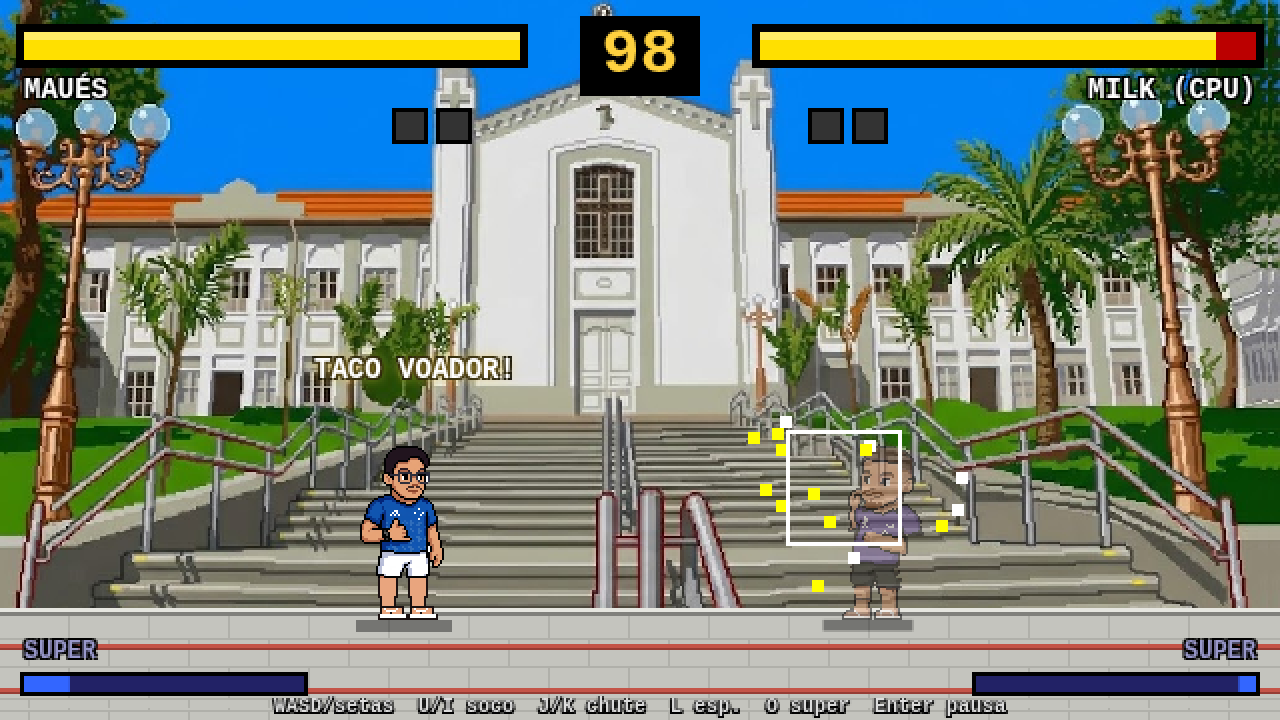
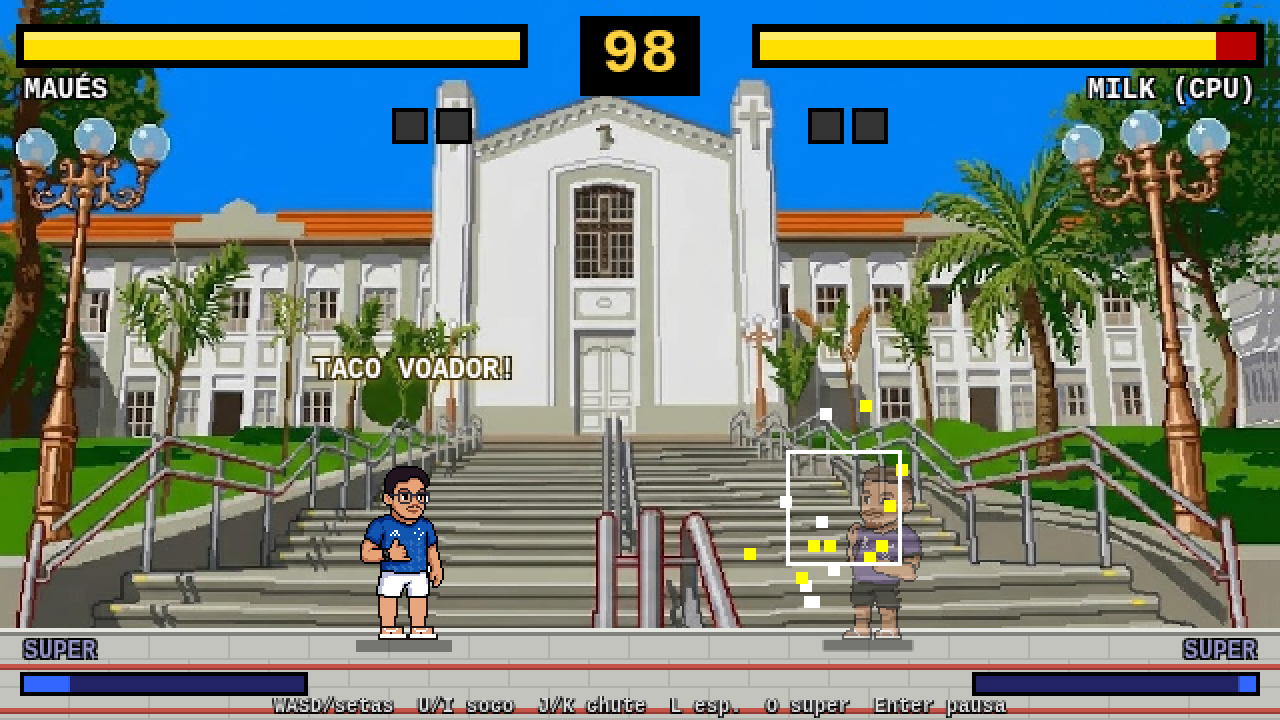
Cotovelos Joao/Milk, frase Milk (BUILD 202610211500)

diff --git a/index.html b/index.html
@@ -12,6 +12,6 @@ canvas{image-rendering:pixelated;image-rendering:crisp-edges;background:#000}
 <div id="wrap"><canvas id="c" width="640" height="360"></canvas></div>
 <div id="touch"><div><span class="tb" data-k="ArrowLeft">◀</span><span class="tb" data-k="ArrowUp">▲</span><span class="tb" data-k="ArrowDown">▼</span><span class="tb" data-k="ArrowRight">▶</span></div>
 <div><span class="tb" data-k="KeyU">SF</span><span class="tb" data-k="KeyI">SF+</span><span class="tb" data-k="KeyJ">CF</span><span class="tb" data-k="KeyK">CF+</span><span class="tb" data-k="KeyL">ESP</span><span class="tb" data-k="KeyO">SUP</span><span class="tb" data-k="Enter">OK</span></div></div>
-<script>window.BUILD="202610211440";</script><script src="js/characters.js?v=202610211440"></script><script src="js/stages.js?v=202610211440"></script><script src="js/audio.js?v=202610211440"></script><script src="js/input.js?v=202610211440"></script>
-<script src="js/fighter.js?v=202610211440"></script><script src="js/ai.js?v=202610211440"></script><script src="js/game.js?v=202610211440"></script>
+<script>window.BUILD="202610211500";</script><script src="js/characters.js?v=202610211500"></script><script src="js/stages.js?v=202610211500"></script><script src="js/audio.js?v=202610211500"></script><script src="js/input.js?v=202610211500"></script>
+<script src="js/fighter.js?v=202610211500"></script><script src="js/ai.js?v=202610211500"></script><script src="js/game.js?v=202610211500"></script>
 </body></html>

diff --git a/js/characters.js b/js/characters.js
@@ -28,7 +28,7 @@ const CHARACTERS = [
   { name: "Milk", alturaReal: 1.78, alturaArte: 93, color: "#5b3fa0", accent: "#f4f4ff", stats: { speed: 5, power: 6, health: 8 }, sprite: null, parts: "assets/milk/", partsMeta: { ox: -21, legX: [8, 23] },
     projectile: "pituxo", projSprite: "assets/milk_pituxo.png", projR: 7,
     specials: { fireball: "PITUXO", dp: "GANCHO DO MILK", spin: "BARRIGADA GIRATÓRIA", super: "SUPER PITUXO" },
-    quote: "Toma leite que passa!", quotes: ["Toma leite que passa!", "Um Pituxo pra comemorar!", "Barriga de respeito, golpe de respeito."],
+    quote: "Pix sem taxa no pv", quotes: ["Pix sem taxa no pv"],
     skins: [{ nome: "Original" }] },
   { name: "Lutador 3", color: "#3bd16f", accent: "#1a1a1a", stats: { speed: 4, power: 9, health: 8 }, sprite: null,
     specials: { fireball: "PEDRADA", dp: "GANCHO DE PEDRA", spin: "ROLO COMPRESSOR", super: "TERREMOTO TOTAL" },
@@ -119,11 +119,9 @@ const PLANILHA = {
    "super": {}
   },
   "quotes": [
-   "Toma leite que passa!",
-   "Um Pituxo pra comemorar!",
-   "Barriga de respeito, golpe de respeito."
+   "Pix sem taxa no pv"
   ],
-  "quote": "Toma leite que passa!"
+  "quote": "Pix sem taxa no pv"
  },
  "Lutador 3": {
   "stats": {

diff --git a/tools/gerar_milk.py b/tools/gerar_milk.py
@@ -27,20 +27,23 @@ def outline(im):
     a=im.load(); o=im.copy(); b=o.load()
     for y in range(im.height):
         for x in range(im.width):
-            if a[x,y][3]==0 and any(0<=x+i<im.width and 0<=y+j<im.height and a[x+i,y+j][3] and sum(a[x+i,y+j][:3])>200 for i,j in((1,0),(-1,0),(0,1),(0,-1))): b[x,y]=OL
+            if a[x,y][3]==0 and any(0<=x+i<im.width and 0<=y+j<im.height and a[x+i,y+j][3] and sum(a[x+i,y+j][:3])>110 for i,j in((1,0),(-1,0),(0,1),(0,-1))): b[x,y]=OL
     return o
 def canvas(): return Image.new('RGBA',(W+PADR,HIP+2+PADT))
 def put(c,im,x,y): c.alpha_composite(im,(x,y+PADT))
 UPV=lambda im: im.transpose(Image.ROTATE_180).transpose(Image.FLIP_LEFT_RIGHT)   # aponta p/ cima, mão no topo
 FWD=lambda im: im.transpose(Image.ROTATE_90)                                       # horizontal, mão p/ frente
+UA=front.crop((0,0,front.width,10))            # braço (do fim da manga até o cotovelo)
+BUA=back.crop((0,0,back.width,6))
 def pose(kind):
     c=canvas(); put(c,body,0,0)
-    if kind=='block': put(c,FWD(back),12,40)
-    else: put(c,FWD(back),8,47)                    # braço de trás: antebraço p/ frente na barriga
-    if kind=='guard':   put(c,UPV(front),36,24)     # punho na altura do queixo
-    elif kind=='punch': put(c,FWD(front),36,38)     # soco esticado
-    elif kind=='upper': put(c,UPV(front),36,2)      # punho p/ cima
-    elif kind=='block': put(c,UPV(front),37,12)     # antebraço na frente do rosto
+    # braço de trás: manga -> braço curto -> cotovelo -> antebraço p/ frente na barriga
+    if kind=='block': put(c,BUA,1,46); put(c,FWD(back),3,48)
+    else: put(c,BUA,1,46); put(c,FWD(back),3,50)
+    if kind=='guard':   put(c,UA,36,46); put(c,UPV(front),36,32)     # cotovelo em baixo (y~56), punho no queixo
+    elif kind=='punch': put(c,FWD(front),36,38)                     # soco esticado (cotovelo encostado na manga)
+    elif kind=='upper': put(c,UA,36,46); put(c,UPV(front),36,24)     # punho p/ cima
+    elif kind=='block': put(c,UA,36,46); put(c,UPV(front),37,28)     # antebraço na frente do rosto
     return outline(c)
 import os; d='assets/milk/'; os.makedirs(d,exist_ok=True)
 for k in('guard','punch','upper','block'): pose(k).save(d+k+'.png')

diff --git a/tools/gerar_joao.py b/tools/gerar_joao.py
@@ -35,7 +35,7 @@ def outline(im):
     a=im.load(); o=im.copy(); b=o.load()
     for y in range(im.height):
         for x in range(im.width):
-            if a[x,y][3]==0 and any(0<=x+i<im.width and 0<=y+j<im.height and a[x+i,y+j][3] and sum(a[x+i,y+j][:3])>200 for i,j in((1,0),(-1,0),(0,1),(0,-1))): b[x,y]=OL
+            if a[x,y][3]==0 and any(0<=x+i<im.width and 0<=y+j<im.height and a[x+i,y+j][3] and sum(a[x+i,y+j][:3])>110 for i,j in((1,0),(-1,0),(0,1),(0,-1))): b[x,y]=OL
     return o
 def canvas(): return Image.new('RGBA',(W+PADR,HIP+2+PADT))
 def put(c,im,x,y): c.alpha_composite(im,(x,y+PADT))
